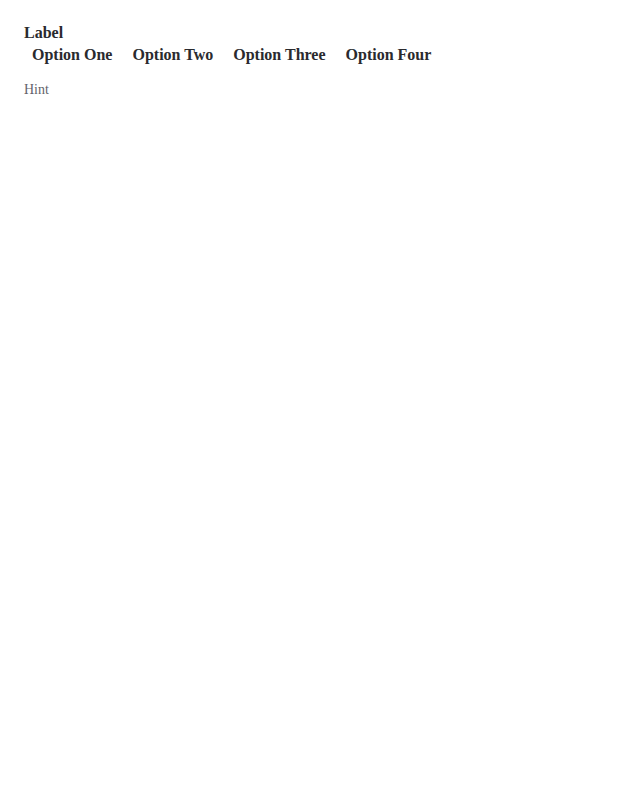
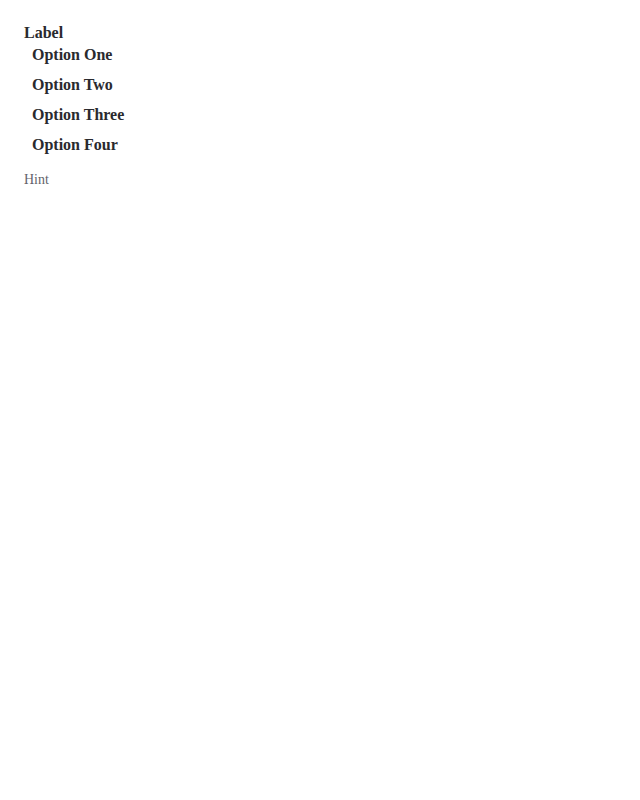
fix(helix): fix seven base examples not showing the component
A quality pass, first batch. Each of these rendered validly and read as the wrong
thing, which is the failure the base examples exist to surface and the one no
check on markup can see.

App Header stacked its logo, its nav and its actions down the page: three lines
where every app header ever built is one line across. It is a bar with a bottom
edge now, its regions spread along it.

Announcement dropped its dismiss under the message, which reads as a second
paragraph rather than as a control. Badge rendered its count inline after the
bell, so it read as the word "3" beside an icon rather than a number on it; the
host is a positioning context now and the indicator hangs off the corner.

Empty ran its heading, its line and its action together as prose with a link in
it. Listbox laid four options across the page as a sentence, the name `items`
having matched the branch that lays a group out along a line. Tree did the same
one worse: a parent and its children ran left to right with nothing saying which
contained which, which is a breadcrumb rather than a tree.

Pagination drew the browser's own `<ol>` numbering beside its own, so the control
read "1. 1  2. 2  3. 3" across.

Baselines retaken in the same commit.

diff --git a/helix/web/src/tree/.examples/base.css b/helix/web/src/tree/.examples/base.css
@@ -86,6 +86,23 @@ helix-base-tree-item::part(item):focus-visible {
   outline-offset: 2px;
 }
 
+/* Down and indented, which is what nesting means.
+   
+   Both tree and group matched the branch that lays a group out along a line, so
+   a parent and its children ran across the page: Item One, then Item Two and
+   Item Three beside it, then Item Four, with nothing saying which contained
+   which. A tree that reads left to right is a breadcrumb. */
+helix-base-tree::part(tree),
+helix-base-tree-item::part(group) {
+  align-items: stretch;
+  display: flex;
+  flex-direction: column;
+}
+
+helix-base-tree-item::part(group) {
+  padding-inline-start: 1rem;
+}
+
 /* The chevron is the toggle itself, not a glyph inside one. */
 helix-base-tree-item::part(toggle) {
   block-size: 1em;

diff --git a/helix/web/src/badge/.examples/base.css b/helix/web/src/badge/.examples/base.css
@@ -43,6 +43,11 @@ helix-base-icon {
   inline-size: 1em;
 }
 
+helix-base-badge {
+  display: inline-flex;
+  position: relative;
+}
+
 helix-base-icon-button::part(button) {
   all: unset;
   box-sizing: border-box;
@@ -61,4 +66,18 @@ helix-base-icon::part(svg) {
 helix-base-icon-button::part(button):focus-visible {
   outline: 2px solid var(--_gray-mark);
   outline-offset: 2px;
+}
+
+helix-base-badge::part(indicator) {
+  background-color: var(--_gray-strong);
+  border-radius: 999px;
+  color: var(--_gray-surface);
+  font-size: 0.6875rem;
+  inset-block-start: -0.25rem;
+  inset-inline-end: -0.5rem;
+  line-height: 1;
+  min-inline-size: 1rem;
+  padding: 0.125rem 0.25rem;
+  position: absolute;
+  text-align: center;
 }

diff --git a/helix/web/src/app-header/.examples/base.css b/helix/web/src/app-header/.examples/base.css
@@ -43,6 +43,11 @@ helix-base-icon {
   inline-size: 1em;
 }
 
+helix-base-app-header {
+  border-block-end: 1px solid var(--_gray-line);
+  display: block;
+}
+
 helix-base-app-header::part(row) {
   background-color: transparent;
   border: 0;
@@ -67,4 +72,17 @@ helix-base-icon::part(svg) {
 helix-base-icon-button::part(button):focus-visible {
   outline: 2px solid var(--_gray-mark);
   outline-offset: 2px;
+}
+
+helix-base-app-header::part(row) {
+  align-items: center;
+  display: flex;
+  gap: 1rem;
+  justify-content: space-between;
+  min-block-size: 3rem;
+  padding: 0 0.75rem;
+}
+
+helix-base-app-header::part(content) {
+  flex: 1;
 }

diff --git a/helix/web/src/announcement/.examples/base.css b/helix/web/src/announcement/.examples/base.css
@@ -43,6 +43,14 @@ helix-base-icon {
   inline-size: 1em;
 }
 
+helix-base-announcement {
+  align-items: center;
+  border-block-end: 1px solid var(--_gray-line);
+  display: flex;
+  gap: 0.5rem;
+  padding: 0.5rem 0.75rem;
+}
+
 helix-base-announcement::part(actions) {
   align-items: center;
   display: flex;
@@ -65,4 +73,8 @@ helix-base-icon::part(svg) {
   block-size: 1em;
   flex: none;
   inline-size: 1em;
+}
+
+helix-base-announcement::part(content) {
+  flex: 1;
 }

diff --git a/helix/web/src/pagination/.examples/base.css b/helix/web/src/pagination/.examples/base.css
@@ -101,3 +101,12 @@ helix-base-pagination::part(item):focus-visible {
   outline: 2px solid var(--_gray-mark);
   outline-offset: 2px;
 }
+
+helix-base-pagination::part(list) {
+  align-items: center;
+  display: flex;
+  gap: 0.25rem;
+  list-style: none;
+  margin: 0;
+  padding: 0;
+}

diff --git a/helix/web/src/empty/.examples/base.css b/helix/web/src/empty/.examples/base.css
@@ -43,6 +43,15 @@ helix-base-icon {
   inline-size: 1em;
 }
 
+helix-base-empty {
+  align-items: center;
+  display: flex;
+  flex-direction: column;
+  gap: 0.5rem;
+  padding: 1.5rem;
+  text-align: center;
+}
+
 helix-base-icon::part(svg) {
   block-size: 1em;
   flex: none;

diff --git a/helix/web/src/listbox/.examples/base.css b/helix/web/src/listbox/.examples/base.css
@@ -94,3 +94,8 @@ helix-base-option::part(item):focus-visible {
   outline: 2px solid var(--_gray-mark);
   outline-offset: 2px;
 }
+
+helix-base-listbox::part(items) {
+  align-items: stretch;
+  flex-direction: column;
+}
